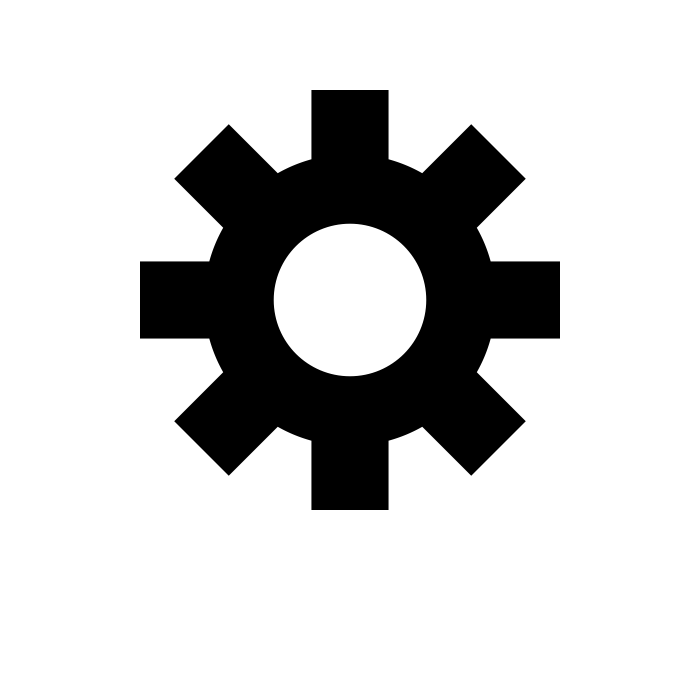
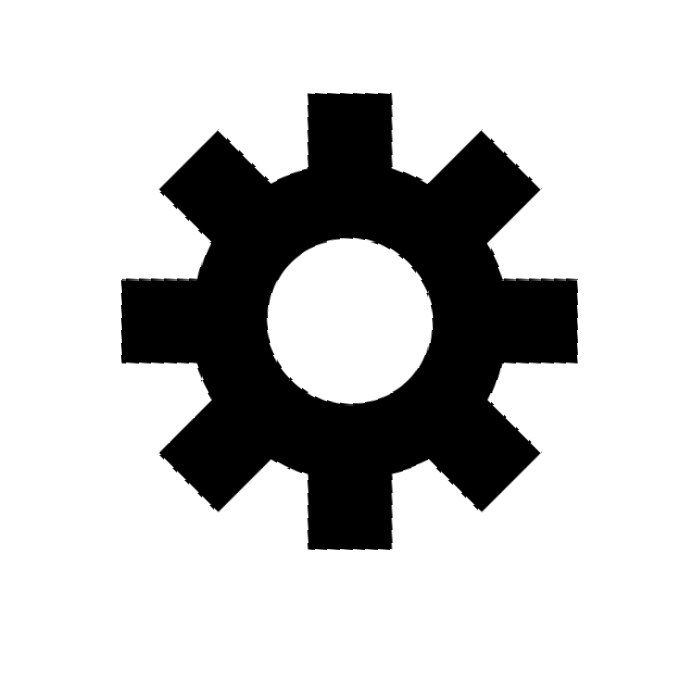
button image change

diff --git a/BaekYangLiWindows/BaekYangLi/MainWindow.xaml b/BaekYangLiWindows/BaekYangLi/MainWindow.xaml
@@ -19,9 +19,12 @@
                 <StackPanel.Background>
                     <ImageBrush/>
                 </StackPanel.Background>
-                <Button x:Name="OneTouchBtn"  Height="50" Click="BtnClick" BorderBrush="{x:Null}">
+                <Button x:Name="OneTouchBtn"  Height="50" Click="BtnClick">
+                    <Button.BorderBrush>
+                        <ImageBrush/>
+                    </Button.BorderBrush>
                     <Button.Background>
-                        <ImageBrush ImageSource="img/map.png" />
+                        <ImageBrush ImageSource="img/one.png" />
                     </Button.Background>
                 </Button>
                 <Button x:Name="MapBtn"    Height="50" Click="BtnClick" BorderBrush="{x:Null}">
@@ -35,7 +38,7 @@
                     </Button.Background>
                 </Button>
             </StackPanel>
-            
+
         </Grid>
 
     </Grid>

diff --git a/BaekYangLiWindows/BaekYangLi/SettingPage.xaml b/BaekYangLiWindows/BaekYangLi/SettingPage.xaml
@@ -1,0 +1,14 @@
+<Page x:Class="BaekYangLi.SettingPage"
+      xmlns="http://schemas.microsoft.com/winfx/2006/xaml/presentation"
+      xmlns:x="http://schemas.microsoft.com/winfx/2006/xaml"
+      xmlns:mc="http://schemas.openxmlformats.org/markup-compatibility/2006" 
+      xmlns:d="http://schemas.microsoft.com/expression/blend/2008" 
+      xmlns:local="clr-namespace:BaekYangLi"
+      mc:Ignorable="d" 
+      d:DesignHeight="400" d:DesignWidth="545"
+      Title="SettingPage" Background="#FFF1F1F1">
+
+    <Grid>
+        
+    </Grid>
+</Page>

diff --git a/BaekYangLiWindows/BaekYangLi/SettingPage.xaml.cs b/BaekYangLiWindows/BaekYangLi/SettingPage.xaml.cs
@@ -1,0 +1,28 @@
+using System;
+using System.Collections.Generic;
+using System.Linq;
+using System.Text;
+using System.Threading.Tasks;
+using System.Windows;
+using System.Windows.Controls;
+using System.Windows.Data;
+using System.Windows.Documents;
+using System.Windows.Input;
+using System.Windows.Media;
+using System.Windows.Media.Imaging;
+using System.Windows.Navigation;
+using System.Windows.Shapes;
+
+namespace BaekYangLi
+{
+    /// <summary>
+    /// SettingPage.xaml에 대한 상호 작용 논리
+    /// </summary>
+    public partial class SettingPage : Page
+    {
+        public SettingPage()
+        {
+            InitializeComponent();
+        }
+    }
+}
